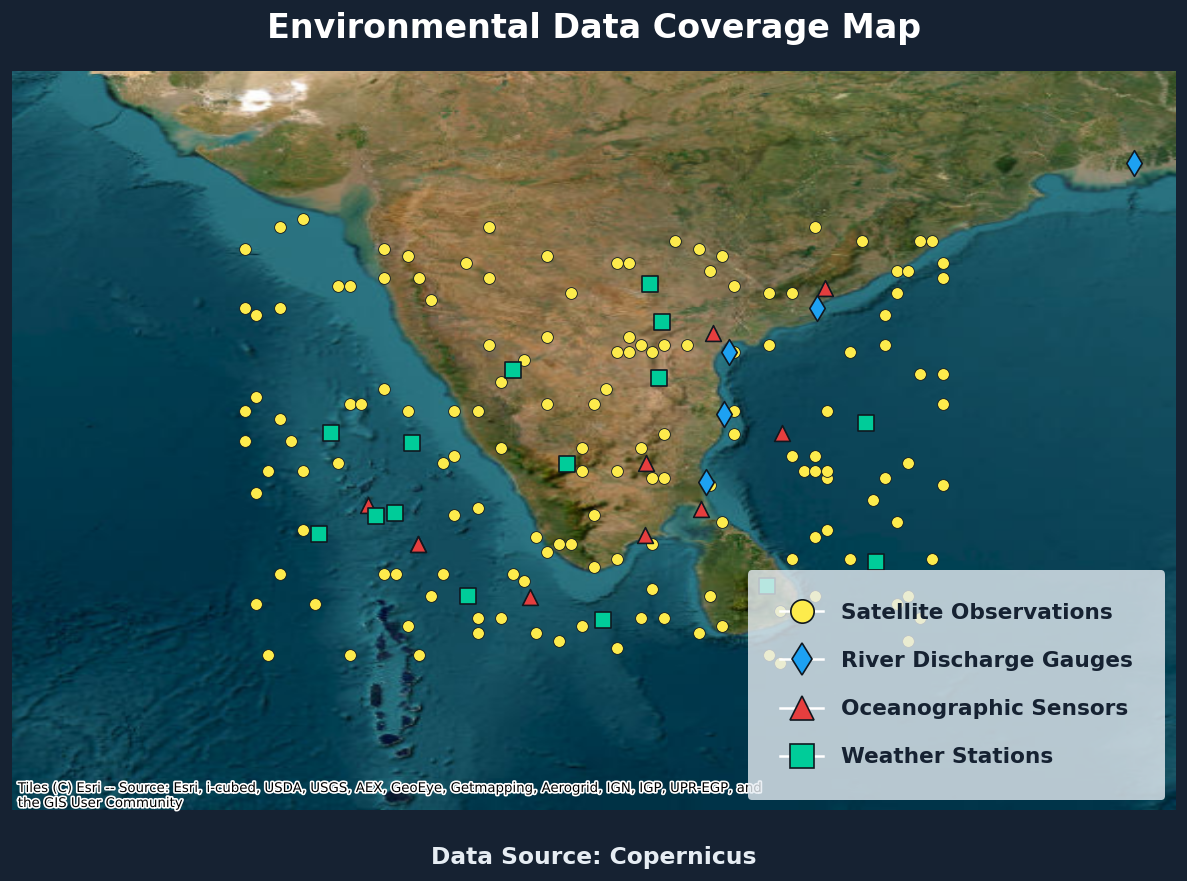
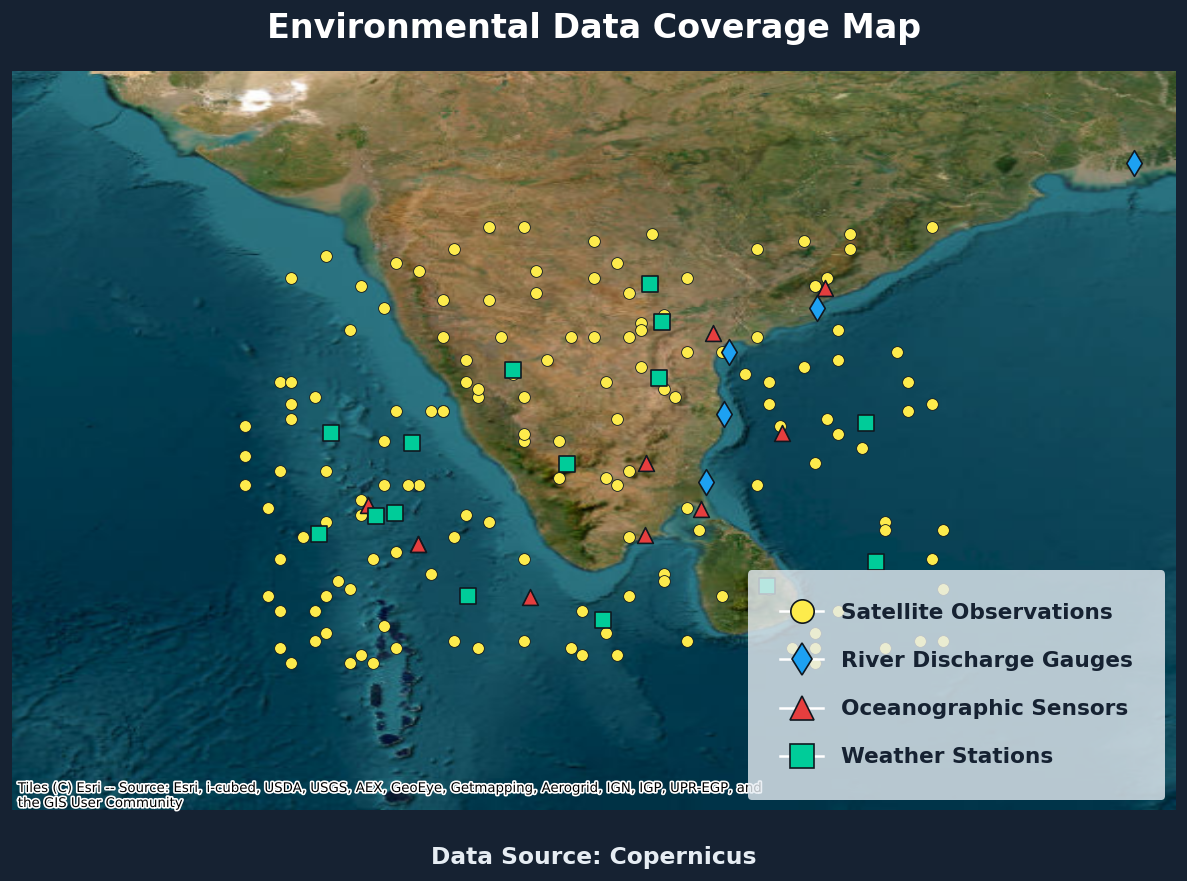
chore: make minor updates and commit project files

diff --git a/diagnose_copernicus.py b/diagnose_copernicus.py
@@ -1,4 +1,4 @@
-# Copernicus Diagnostic Script
+# Copernicus Diagnostic Script (Updated June 2026)
 # Runs in isolation to capture the FULL error from copernicusmarine
 # Run with: venv\Scripts\python.exe diagnose_copernicus.py
 